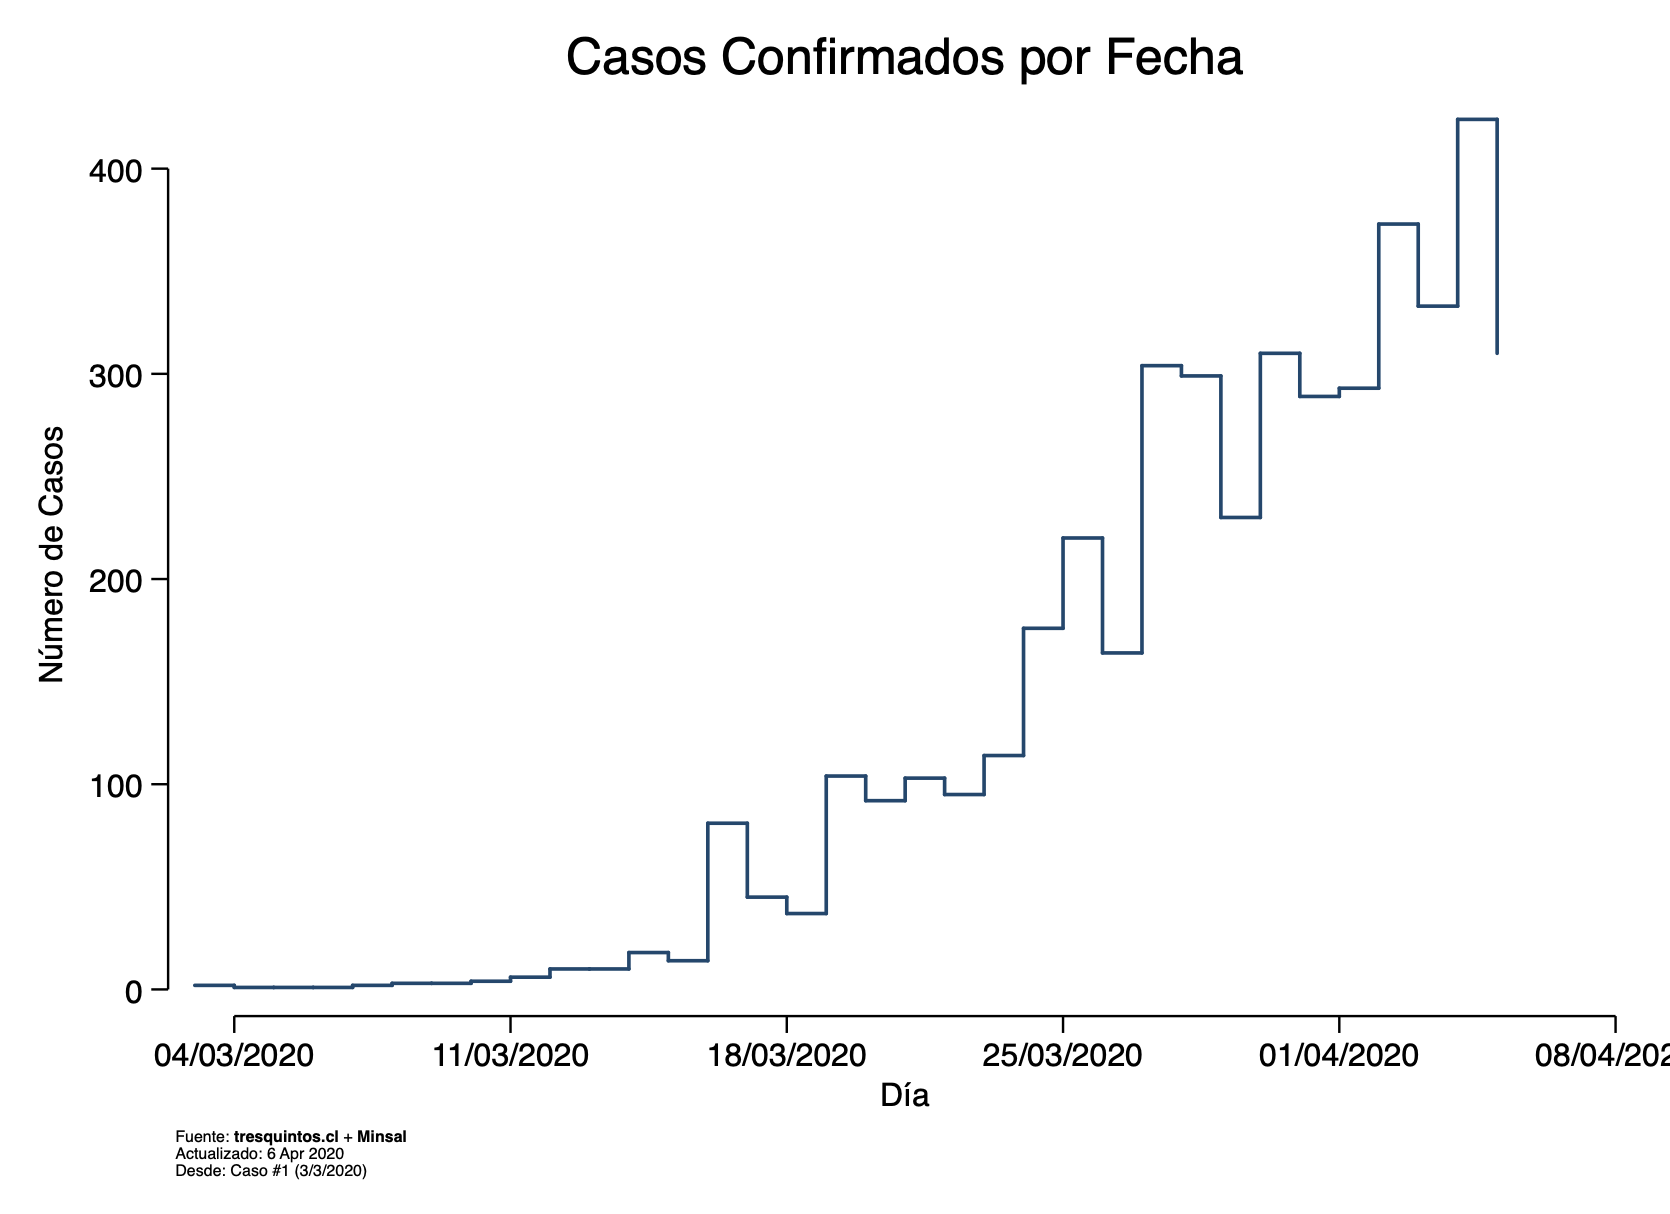
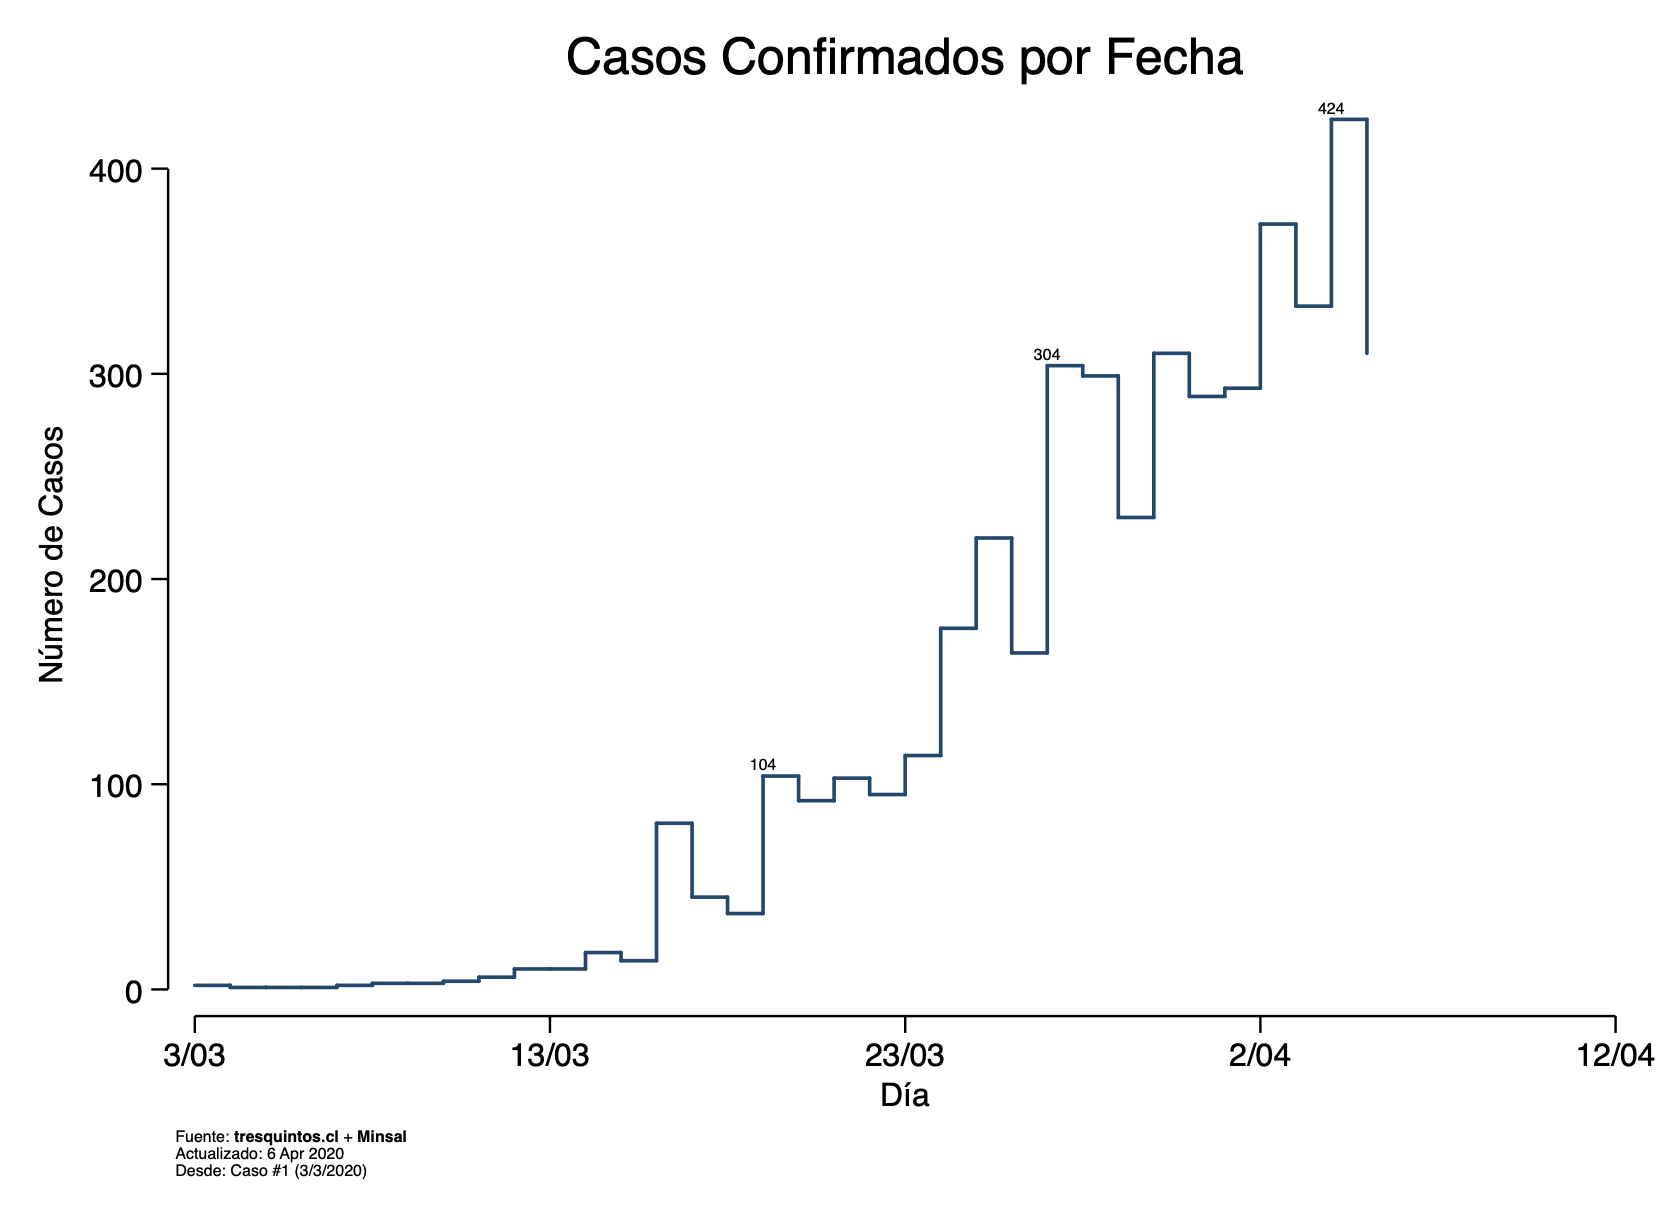
covid19

diff --git a/_pages/covid19.md b/_pages/covid19.md
@@ -9,9 +9,9 @@ En esta página podrás seguir la evolución del Coronavirus (COVID-19) en Chile
 
 ### Casos confirmados
 
-El siguiente gráfico muestra el número de casos confirmados por día. El primer caso reportado es el 3 de Marzo de 2020.
+Los siguientes gráficos muestra el número de casos confirmados por día. El gráfico de la izquierda muestra la evolución por fecha, y el gráfico de la derecha muestra la evolución por día (a partir del primer caso reportado: 3 de Marzo de 2020.)
 
-[![ep](/images/chile_casos_diarios.png){:height="100%" width="100%"}](https://tresquintos.cl/images/chile_casos_diarios.png)
+[![ep](/images/chile_casos_diarios_dia.png){:height="47%" width="47%"}](https://tresquintos.cl/images/chile_casos_diarios_dia.png) [![ep](/images/chile_casos_diarios_fecha.png){:height="47%" width="47%"}](https://tresquintos.cl/images/chile_casos_diarios_fecha.png)
 
 
 ### Avance desde el primer caso
